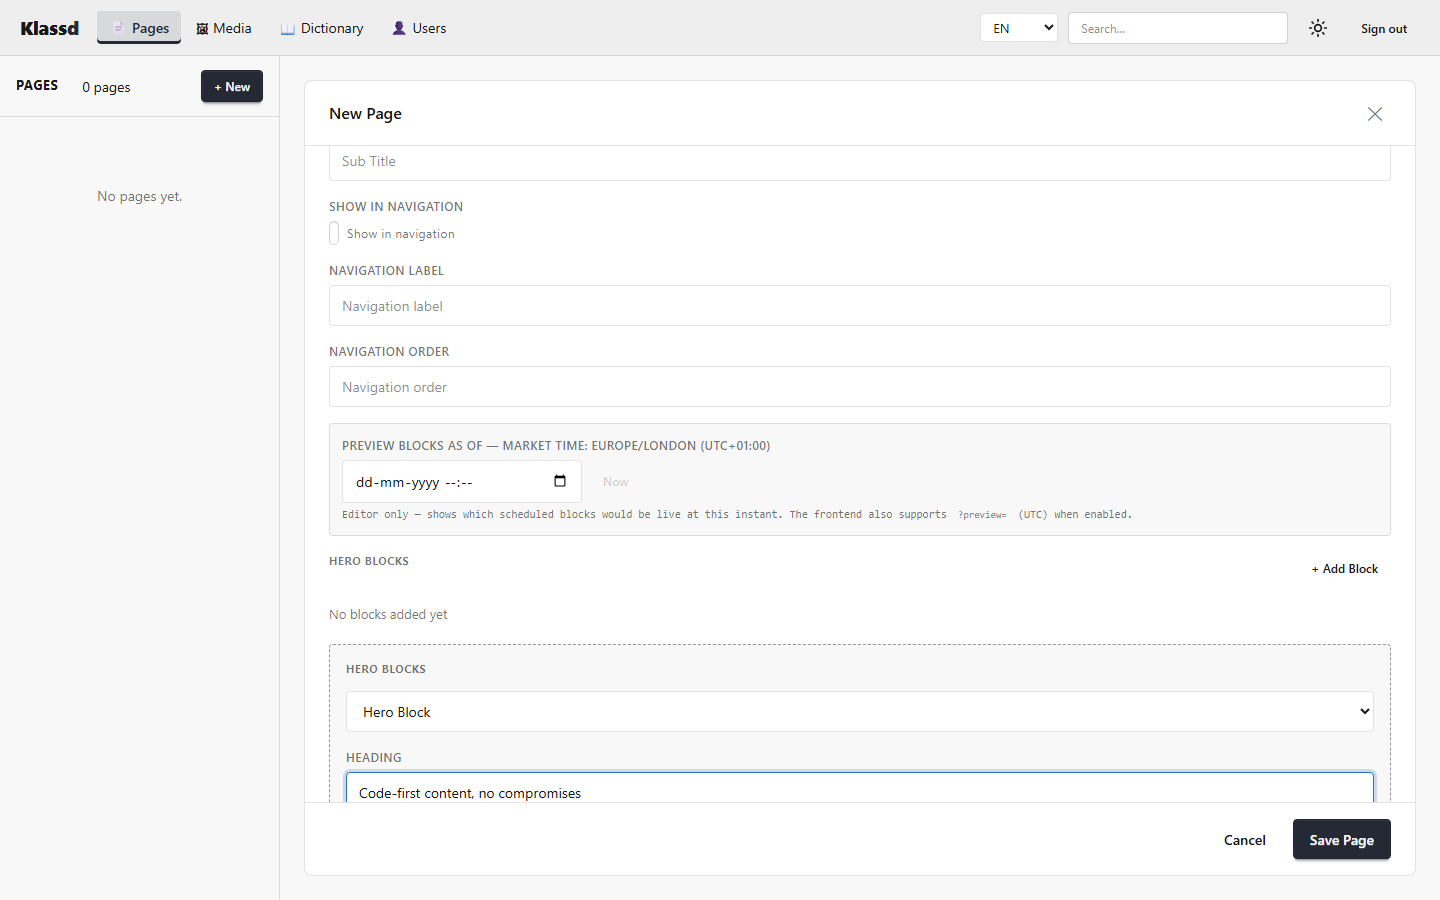
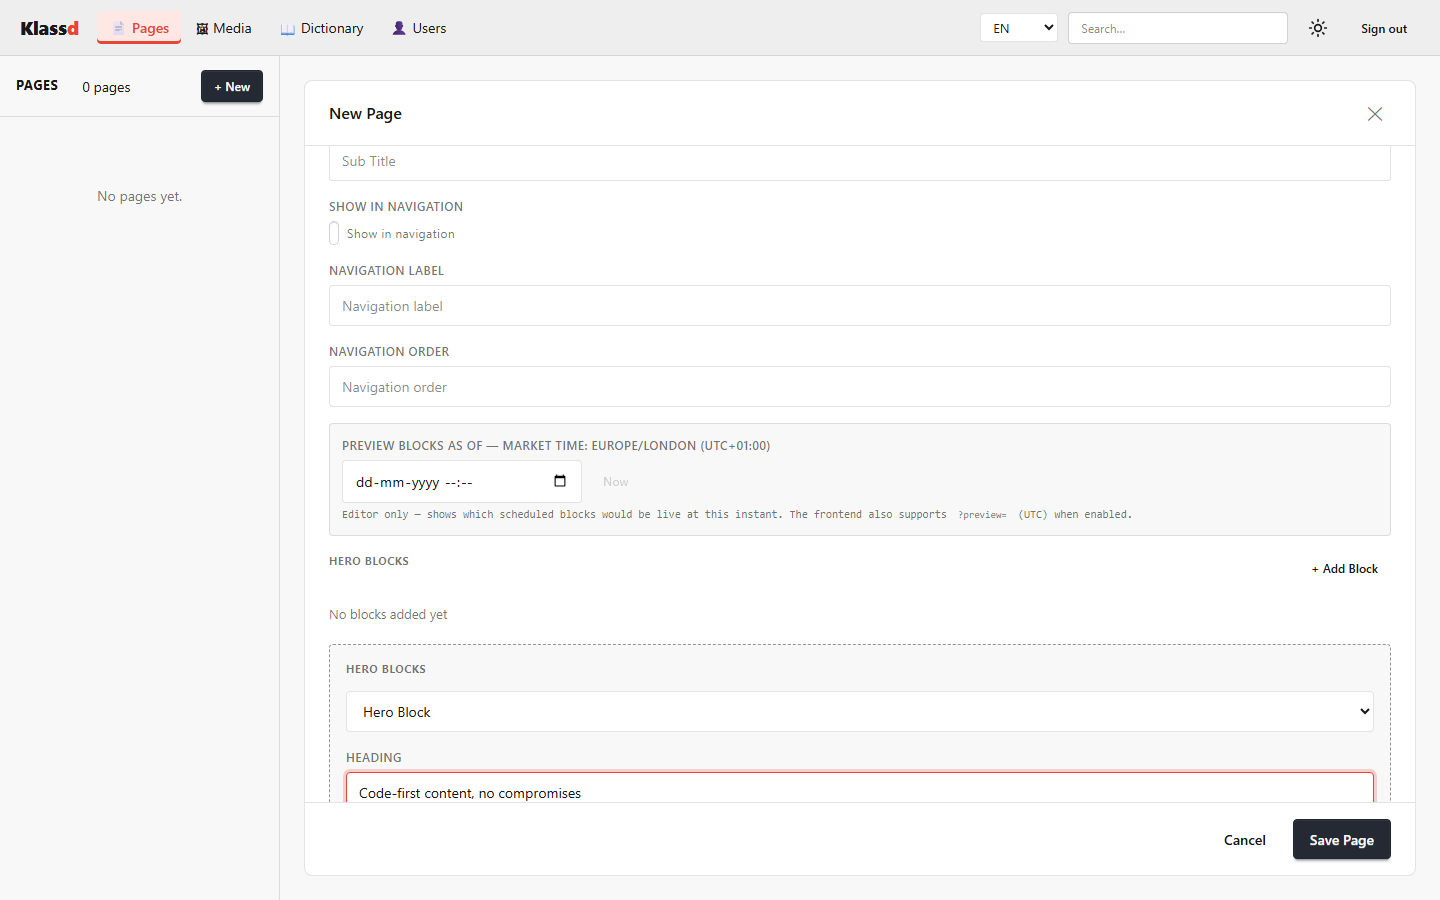
feat(admin): adopt coral as the Klassd brand color + dark-mode README shots
Pick a real brand color now that the shell is near-monochrome. Coral
(oklch ~62% .2 29, nudged toward orange to stay clear of the red error
state) becomes the single accent carrying the identity:

- Logo wordmark, active-nav indicator, selected tree/list items, the
  selected-block highlight, links and focus rings all use the accent.
- CTA buttons stay mono (graphite / near-white) for a premium feel.
- A coral left-bar now marks the selected page in the tree.

Also capture a dark-mode pass in the screenshot utility (toggles the
theme, which persists to preferences) and add a dark gallery to the
README. Verified coral reads well in both light and dark.

Changed region(s): [[0.25, 0.84, 0.9688, 0.8711], [0.0625, 0.0, 0.125, 0.0622]]

diff --git a/src/Klassd.Backoffice/wwwroot/klassd.css b/src/Klassd.Backoffice/wwwroot/klassd.css
@@ -15,16 +15,17 @@
 }
 
 /* ── Klassd brand palette ───────────────────────────────────────────────────────
-   Near-monochrome: a graphite primary drives buttons + active states, with a single
-   blue ACCENT reserved for links and focus rings. The stock daisyUI magenta secondary
-   is retired to a quiet slate. These override daisyUI's theme tokens — klassd.css is
-   unlayered, so it wins over daisyUI's @layer base defaults regardless of order. */
+   Near-monochrome shell with one brand color: a graphite/near-white primary drives the
+   CTA buttons (kept mono for a premium feel), while the Klassd coral ACCENT carries the
+   brand on the logo, active-nav indicator, selected items, links and focus rings. The
+   stock daisyUI magenta secondary is retired to a quiet slate. These override daisyUI's
+   theme tokens — klassd.css is unlayered, so it wins over daisyUI's @layer base defaults. */
 [data-theme="light"] {
   --color-primary: oklch(28% .021 264);          /* graphite — buttons, active nav, selection */
   --color-primary-content: oklch(98% 0 0);
   --color-secondary: oklch(93% .004 264);        /* quiet light slate — secondary buttons */
   --color-secondary-content: oklch(32% .02 264);
-  --color-accent: oklch(55% .15 255);            /* blue — links + focus ring only */
+  --color-accent: oklch(62% .2 29);              /* Klassd coral — the brand accent */
   --color-accent-content: oklch(98% 0 0);
 }
 [data-theme="dark"] {
@@ -32,8 +33,8 @@
   --color-primary-content: oklch(22% .02 264);
   --color-secondary: oklch(34% .02 264);         /* dark slate */
   --color-secondary-content: oklch(93% .004 264);
-  --color-accent: oklch(72% .14 255);            /* brighter blue on dark */
-  --color-accent-content: oklch(20% .03 255);
+  --color-accent: oklch(70% .175 32);            /* brighter coral on dark */
+  --color-accent-content: oklch(22% .03 30);
 }
 
 /* ── Reset / base (daisyUI's prebuilt CSS ships no full preflight) ──────────────
@@ -73,18 +74,18 @@ code {
   border-bottom: 1px solid var(--admin-border);
 }
 .admin-brand { font-size: 19px; font-weight: 800; letter-spacing: -0.01em; flex-shrink: 0; }
-.admin-brand span { color: var(--color-primary); }
+.admin-brand span { color: var(--color-accent); }
 
 /* Horizontal area nav — scroll on overflow rather than wrap (keep the bar one row). */
 .admin-topnav { flex: 1; min-width: 0; overflow-x: auto; scrollbar-width: thin; }
 .admin-nav.menu-horizontal { flex-wrap: nowrap; gap: 2px; padding: 0; }
 .admin-nav.menu-horizontal > li > :where(a) { white-space: nowrap; }
 .admin-nav {
-  --menu-active-bg: color-mix(in oklab, var(--color-primary) 16%, var(--color-base-100));
-  --menu-active-fg: var(--color-primary);
+  --menu-active-bg: color-mix(in oklab, var(--color-accent) 14%, var(--color-base-100));
+  --menu-active-fg: var(--color-accent);
 }
 /* Horizontal active indicator: bottom border instead of the old left inset. */
-.admin-nav .menu-active { font-weight: 600; box-shadow: inset 0 -3px 0 var(--color-primary); }
+.admin-nav .menu-active { font-weight: 600; box-shadow: inset 0 -3px 0 var(--color-accent); }
 
 .admin-topbar-actions { flex-shrink: 0; }
 .admin-topbar-locale select { padding: 4px 8px; font-size: 13px; width: auto; }
@@ -118,15 +119,15 @@ code {
   text-decoration: none; font-size: 14px;
 }
 .context-list li > a:hover { background: var(--color-base-300); }
-.context-list li > a.context-active { background: var(--menu-active-bg); color: var(--color-primary); font-weight: 600; }
-.context-list { --menu-active-bg: color-mix(in oklab, var(--color-primary) 16%, var(--color-base-200)); }
+.context-list li > a.context-active { background: var(--menu-active-bg); color: var(--color-accent); font-weight: 600; }
+.context-list { --menu-active-bg: color-mix(in oklab, var(--color-accent) 14%, var(--color-base-200)); }
 
 /* ── Content tree (page hierarchy) ─────────────────────────────────────────── */
 .tree-list { list-style: none; margin: 0; padding: 0; }
 .tree-node { display: flex; align-items: center; gap: 4px; padding-right: 6px; border-radius: var(--radius-field, .25rem); min-height: 32px; }
 .tree-node:hover { background: var(--color-base-300); }
-.tree-node.active { background: color-mix(in oklab, var(--color-primary) 16%, var(--color-base-200)); }
-.tree-node.active .tree-title { color: var(--color-primary); font-weight: 600; }
+.tree-node.active { background: color-mix(in oklab, var(--color-accent) 14%, var(--color-base-200)); box-shadow: inset 3px 0 0 var(--color-accent); }
+.tree-node.active .tree-title { color: var(--color-accent); font-weight: 600; }
 .tree-label { flex: 1; min-width: 0; display: flex; align-items: center; gap: 8px; background: none; border: none; cursor: pointer; text-align: left; padding: 4px 2px; color: var(--color-base-content); font-size: 14px; }
 .tree-title { overflow: hidden; text-overflow: ellipsis; white-space: nowrap; }
 .tree-type { flex-shrink: 0; font-size: 11px; }
@@ -288,7 +289,7 @@ textarea { resize: vertical; min-height: 90px; }
   background: var(--color-base-200); border: 1px solid var(--admin-border);
   border-radius: var(--radius-field, .25rem); padding: 12px 14px; margin-bottom: 8px;
 }
-.block-item.active { border-color: var(--color-primary); background: color-mix(in oklab, var(--color-primary) 8%, var(--color-base-100)); }
+.block-item.active { border-color: var(--color-accent); background: color-mix(in oklab, var(--color-accent) 8%, var(--color-base-100)); }
 .focal-item { cursor: pointer; }
 .focal-item:hover { border-color: color-mix(in oklab, var(--color-primary) 50%, var(--admin-border)); }
 .block-item-header { display: flex; align-items: center; justify-content: space-between; }

diff --git a/tests/Klassd.UiTests/ScreenshotCaptureTests.cs b/tests/Klassd.UiTests/ScreenshotCaptureTests.cs
@@ -110,5 +110,21 @@ public class ScreenshotCaptureTests : PageTest
         await Page.GotoAsync(Url("/admin/dictionary"));
         await Expect(Page.Locator("h1")).ToHaveTextAsync("Dictionary");
         await ShotAsync("06-dictionary.png");
+
+        // ── 7. Dark-mode pass ─────────────────────────────────────────
+        // Flip the theme (persists to preferences, so it survives navigation) and re-shoot.
+        await Page.GotoAsync(Url("/admin/pages"));
+        await Page.ClickAsync(".theme-toggle");
+        await Page.WaitForFunctionAsync("() => document.documentElement.getAttribute('data-theme') === 'dark'");
+        await Expect(Page.Locator(".tree-title:has-text('Home')").First).ToBeVisibleAsync();
+        await ShotAsync("02-pages-dark.png");
+
+        await Page.ClickAsync(".tree-title:has-text('Home')");
+        await Expect(Page.Locator(".editor-inline")).ToBeVisibleAsync();
+        await ShotAsync("03-page-editor-dark.png", fullPage: false);
+
+        await Page.GotoAsync(Url("/admin/media"));
+        await Expect(Page.Locator(".context-tree-header h2")).ToHaveTextAsync("Media");
+        await ShotAsync("04-media-dark.png");
     }
 }

diff --git a/README.md b/README.md
@@ -33,6 +33,12 @@ no separate schema to maintain. Pages, blocks, fields, media and localization al
 | **Users** | **Dictionary** |
 | [![Users](docs/images/05-users.png)](docs/images/05-users.png) | [![Dictionary](docs/images/06-dictionary.png)](docs/images/06-dictionary.png) |
 
+…and the same shell in **dark mode** (toggled per user, persisted to preferences):
+
+| Page tree | Page editor | Media |
+|:---:|:---:|:---:|
+| [![Pages (dark)](docs/images/02-pages-dark.png)](docs/images/02-pages-dark.png) | [![Page editor (dark)](docs/images/03-page-editor-dark.png)](docs/images/03-page-editor-dark.png) | [![Media (dark)](docs/images/04-media-dark.png)](docs/images/04-media-dark.png) |
+
 The page editor above is fully driven by the `HomePage`/`HeroBlock` C# classes — the `Title` field,
 the `Hero Blocks` area, and per-block scheduling are all reflected from your model.
 
